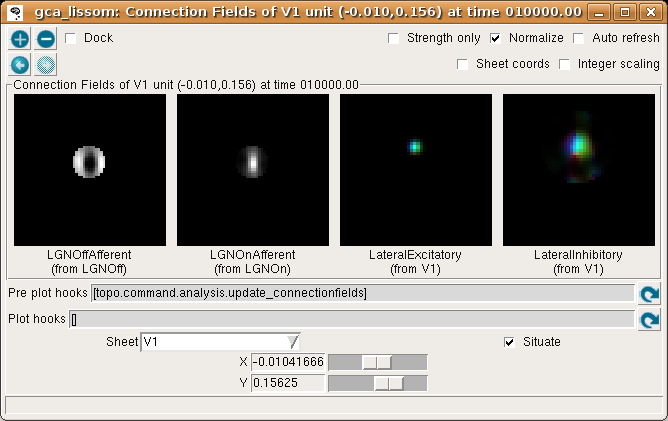
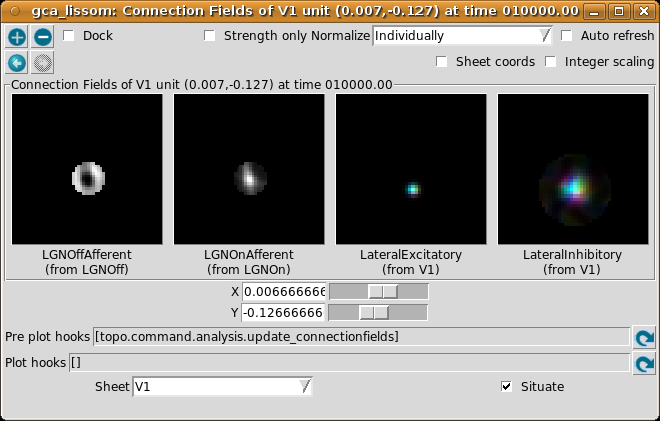
Updated GCA tutorial images, and changed text to match

diff --git a/doc/Tutorials/gca_lissom_text.php b/doc/Tutorials/gca_lissom_text.php
@@ -72,7 +72,7 @@ also shown below:
 <!--CEBALERT: image needs to be created properly!-->
 <p class='center'>
 <img src="images/gca_lissom_network_diagram.png" alt="LISSOM network"
-align="middle" WIDTH="554" HEIGHT="385">
+align="middle" WIDTH="600" HEIGHT="461">
 </p>
 
 <p></p>
@@ -106,7 +106,7 @@ network.
 window should then show the result:
 <p class='center'>
 <img src="images/gca_lissom_activity_010000.png" alt="Response to a line"
-align="middle" WIDTH="668" HEIGHT="360">
+align="middle" WIDTH="660" HEIGHT="359">
 </p>
 
 <P>This window shows the response for each neural area. For now, please 
@@ -156,11 +156,13 @@ neuron in the center of the cortex (by default):
 
 <p class="center">
 <img src="images/gca_lissom_cf_center_010000.png" alt="CF of center neuron"
-align="middle" WIDTH="668" HEIGHT="421">
+align="middle" WIDTH="660" HEIGHT="421">
 </p>
 
 <P>Again, for now please turn on <span class='t_item'>Strength
-only</span>; it is usually off by default.
+only</span>; it is usually off by default.  Here we have selected a
+neuron slightly above the center, because it happened to be more
+selective than the one at the exact center.
 
 <p> The plot shows the afferent weights to V1 (i.e., connections from
 the ON and OFF channels of the LGN), followed by the lateral
@@ -168,7 +170,7 @@ excitatory and lateral inhibitory weights to that neuron from nearby
 neurons in V1. The afferent weights represent the retinal pattern that
 would most excite the neuron.  For the particular neuron shown above,
 the optimal retinal stimulus would be a short, bright line oriented at
-about 30 degrees (from 8 o'clock to 2 o'clock) in the center of the
+about 35 degrees (from 7 o'clock to 1 o'clock) in the center of the
 retina. (Note that the particular neuron you are viewing may have a
 different preferred orientation.)
 </p><p></p></li>
@@ -186,7 +188,7 @@ arrow next to 'Pre plot hooks':
 
 <p class="center">
 <img src="images/gca_lissom_projection_010000.png" alt="Afferent weights of many neurons"
-align="middle" WIDTH="496" HEIGHT="415">
+align="middle" WIDTH="579" HEIGHT="434">
 </p>
 
 This plot shows the afferent weights from the LGN ON sheet for every fifth neuron in each
@@ -208,7 +210,7 @@ neuron.  The results of a similar procedure can be viewed by selecting
 
 <p class="center">
 <img src="images/gca_lissom_or_pref_010000.png" alt="Orientation map"
-align="middle" WIDTH="596" HEIGHT="414">
+align="middle" WIDTH="607" HEIGHT="400">
 </p><br>
 
 <P>
@@ -259,7 +261,7 @@ class='t_item'>Strength only</span> is now turned <i>off</i> in the
 
 <p class="center">
 <img src="images/gca_lissom_activity_010000_or.png" alt="Color-coded response to a line"
-align="middle" WIDTH="668" HEIGHT="360"><br />
+align="middle" WIDTH="660" HEIGHT="359"><br />
 <img src="images/or_key_horiz_transparent.png" alt="Orientation key" height="23" width="288">
 </p><br>
 
@@ -287,13 +289,13 @@ located in a patch of neurons with similar orientation preferences:
 
 <p class="center">
 <img src="images/gca_lissom_cf_center_010000_or.png" alt="Colorized weights of one neuron"
-align="middle" WIDTH="668" HEIGHT="421"><br />
+align="middle" WIDTH="660" HEIGHT="421"><br />
 <img src="images/or_key_horiz_transparent.png" alt="Orientation key" height="23" width="288">
 </p><br>
 
 <P> Look at the <span class='t_item'>LateralExcitatory</span> weights,
 which show that the neurons near the above neuron are nearly all
-orange, to match its preferred orientation.
+yellow-green, to match its preferred orientation.
 
 <P>
 Returning to the <span class='w_title'>Test pattern</span> window,
@@ -320,7 +322,7 @@ so we choose <span class='t_item'>Connection Fields</span> from the
 
 <p class="center">
 <img src="images/gca_lissom_cf_vertical_010000_or.png" alt="Colorized weights of one neuron"
-align="middle" WIDTH="668" HEIGHT="421"><br />
+align="middle" WIDTH="660" HEIGHT="421"><br />
 <img src="images/or_key_horiz_transparent.png" alt="Orientation key" height="23" width="288">
 </p><br>
 
@@ -350,7 +352,7 @@ is true of the map generated by the GCA network:
 
 <p class="center">
 <img src="images/gca_lissom_ormap_ft.png" alt="FT of orientation preference map"
-align="middle" WIDTH="420" HEIGHT="473">
+align="middle" WIDTH="416" HEIGHT="470">
 </p><br>
 
 </li>
@@ -416,7 +418,7 @@ responses to large contours in the image:
 
 <p class="center">
 <img src="images/gca_natural_image_oo_or.png" alt="Ellen Arthur"
-align="middle" WIDTH="512" HEIGHT="369"><br />
+align="middle" WIDTH="579" HEIGHT="365"><br />
 </p>
 
 <P>Here we have enabled <span class='t_item'>Sheet coords</span>

diff --git a/doc/Tutorials/index_text.php b/doc/Tutorials/index_text.php
@@ -2,12 +2,15 @@ Topographica comes with the following step-by-step guides to running
 simulations: 
 
 <P><DL>
-<DT><A href="lissom_oo_or.html"><strong>LISSOM Orientation Map</strong></A></DT>
+<DT><A href="lissom.html"><strong>LISSOM Orientation Map</strong></A></DT>
 <DD>How to run and test a simple orientation map simulation using the
 LISSOM cortical model.  The tutorial allows you to present various
 objects to a saved orientation map network, and to visualize and
 analyze the responses.  It also shows how to develop a new simulation
 using different input patterns.</DD><BR>
+
+<DT><A href="gca_lissom.html"><strong>GCA Orientation Map</strong></A></DT>
+<DD>Same tutorial as for LISSOM, but using the newer and more robust GCA model.</DD><BR>
 
 <!--
 <DT><A href="lissom_or.html"><strong>LISSOM Orientation Map without ON/OFF</strong></A></DT>
